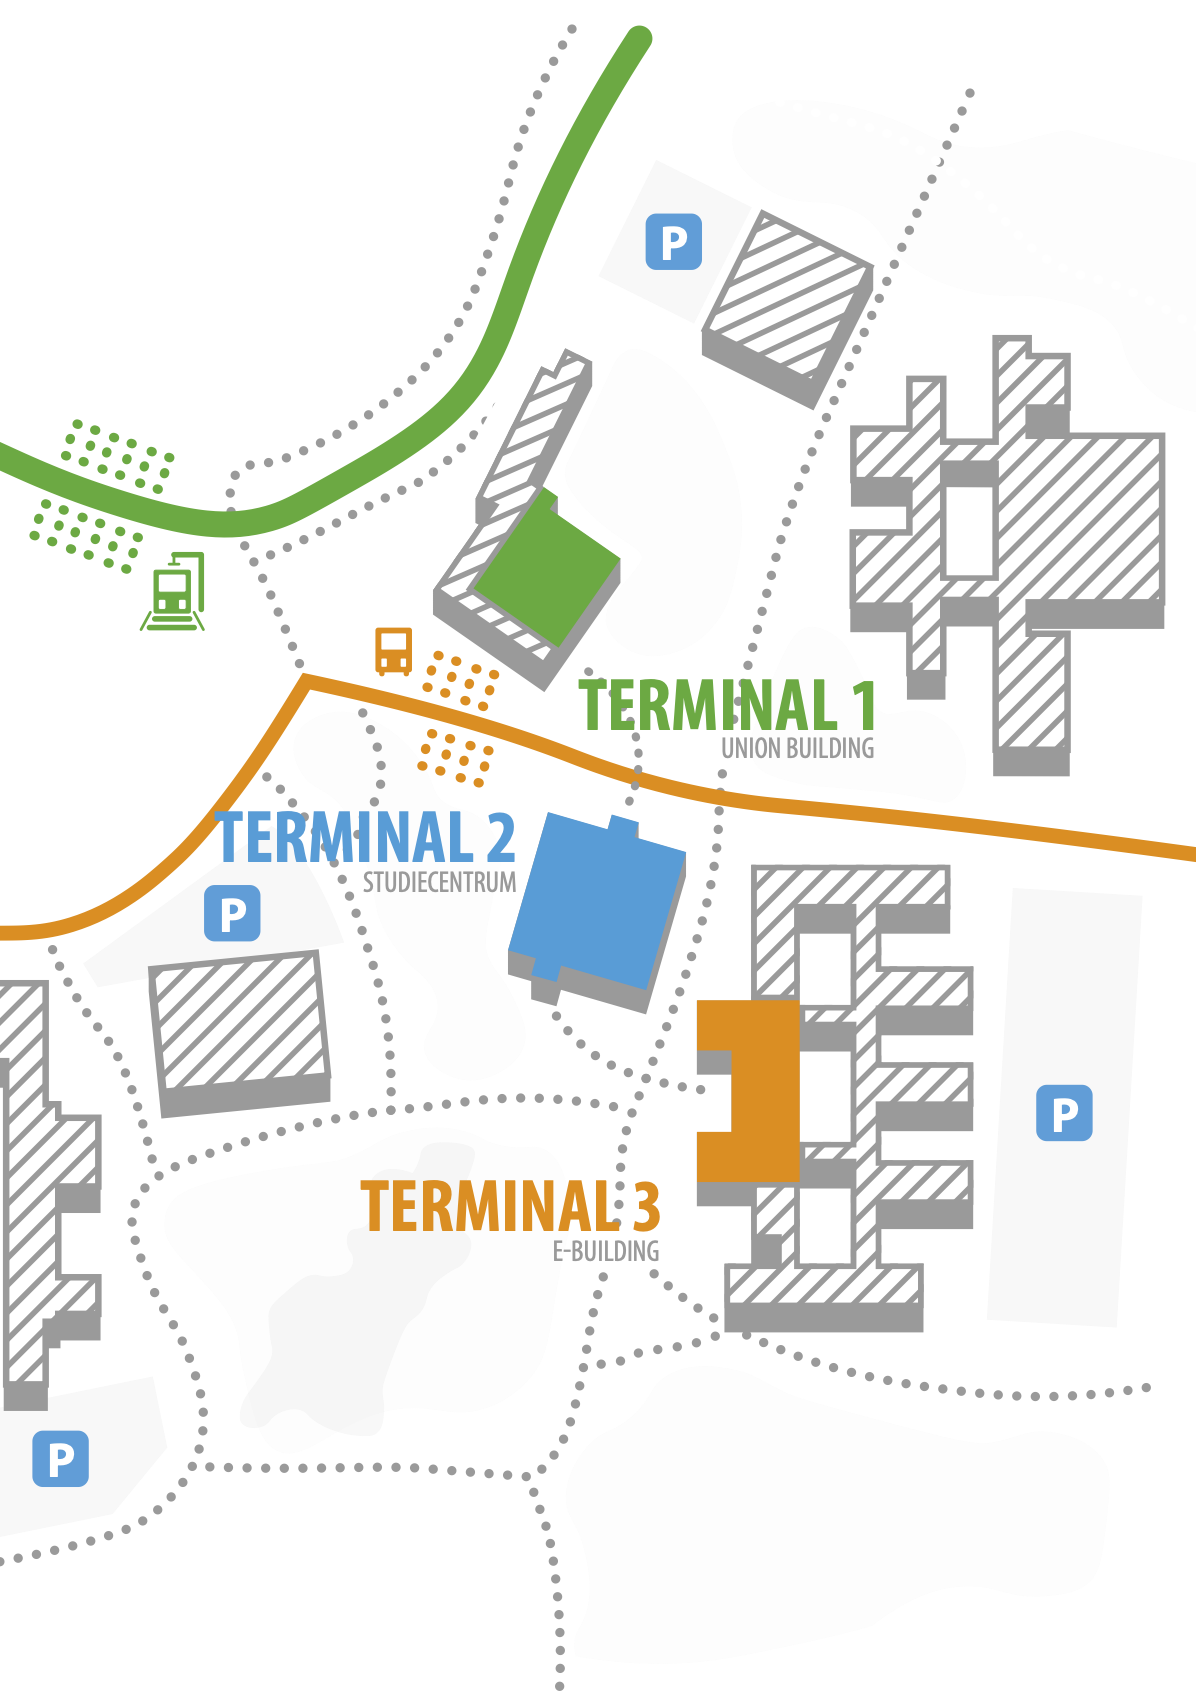
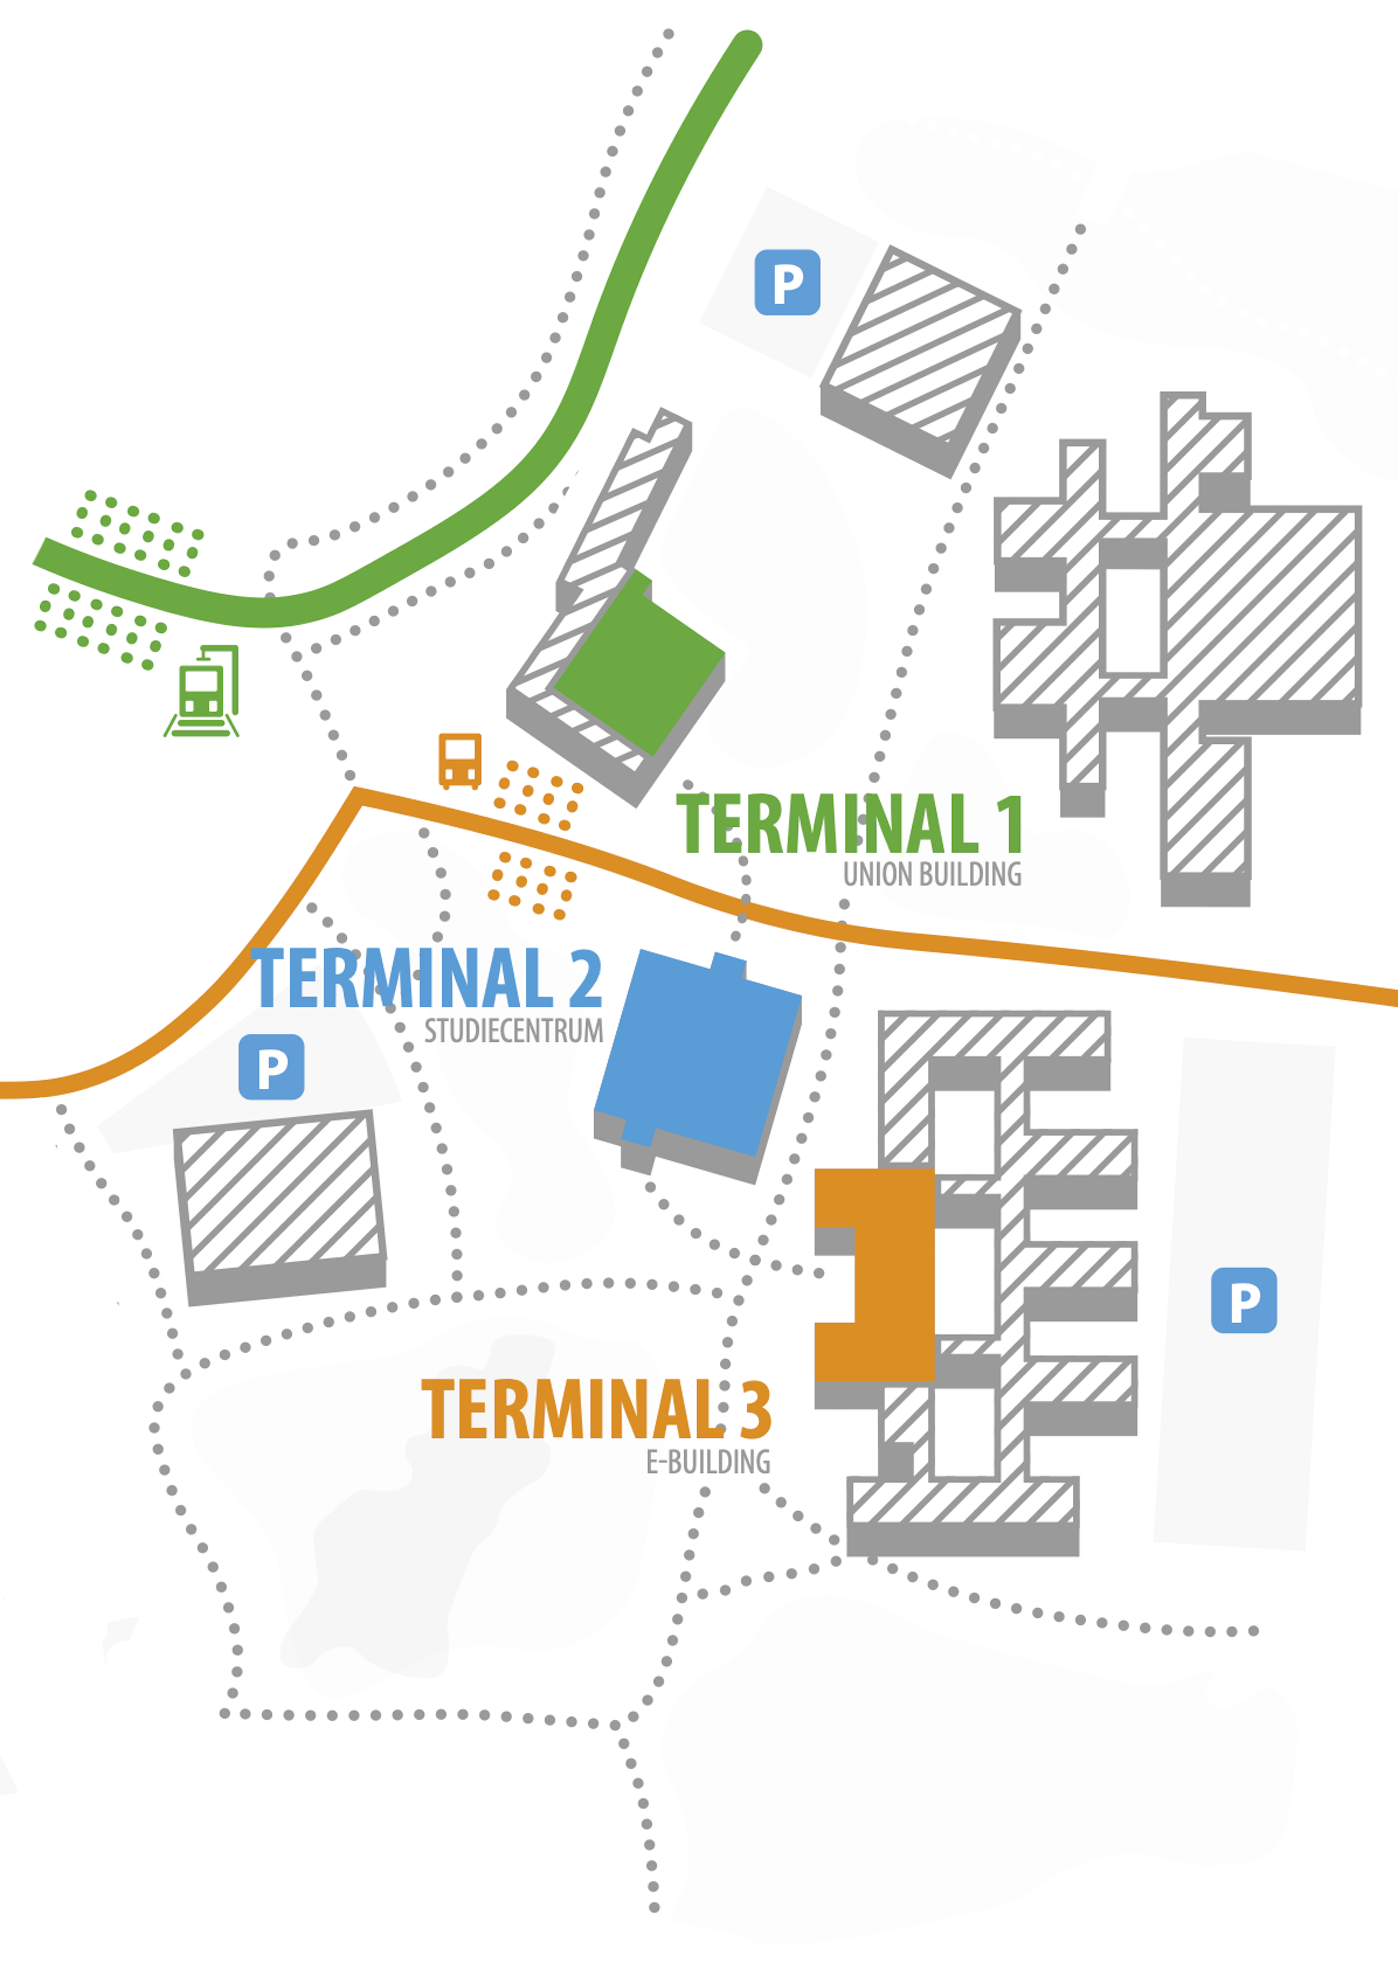
zoomed overview and hidden buttons

Changed region(s): [[0.0, 0.5618, 0.0928, 0.874], [0.464, 0.9676, 0.495, 0.9988], [0.0, 0.2497, 0.0309, 0.2809]]

diff --git a/screens/maps/MapScreen.tsx b/screens/maps/MapScreen.tsx
@@ -13,7 +13,7 @@ export type mapNavigation = {
 };
 
 export default function MapScreen({ navigation }: mapNavigation) {
-  const imageSource = require('../../assets/images/maps/overview.png');
+  const imageSource = require('../../assets/images/maps/overviewtest.png');
 
   function openMap(map: Map) {
     navigation.navigate('ZoomMapScreen', { map });
@@ -55,13 +55,13 @@ const styles = StyleSheet.create({
 
   karbutton: {
     position: "absolute",
-    width: "48%",
-    aspectRatio: 2.1,
+    width: "50%",
+    aspectRatio: 1.4,
     textAlign: 'center',
-    opacity: 0.3,
+    opacity: 0,
     borderRadius: 100,
     left: '32%',
-    bottom: '58%',
+    bottom: '54%',
     margin: 0,
     zIndex: 1001,
     backgroundColor: Colors.lightBlue,
@@ -69,40 +69,40 @@ const styles = StyleSheet.create({
 
   studiebutton: {
     position: "absolute",
-    width: "48%",
-    aspectRatio: 1.9,
-    opacity: 0.3,
+    width: "60%",
+    aspectRatio: 2.2,
+    opacity: 0,
     borderRadius: 100,
     textAlign: 'center',
     margin: "0%",
-    left: "10%",
-    bottom: "39%",
+    left: "0%",
+    bottom: "35%",
     zIndex: 1000,
-    backgroundColor: Colors.lightBlue,
+    //backgroundColor: Colors.lightBlue,
   },
 
   ebutton: {
     position: "absolute",
     width: "28%",
     aspectRatio: 0.5,
-    opacity: 0.3,
+    opacity: 0,
     textAlign: 'center',
     margin: 0,
     left: "59%",
-    bottom: "18%",
+    bottom: "10%",
     borderRadius: 100,
     backgroundColor: Colors.lightBlue,
   },
 
   etext: {
     position: "absolute",
-    width: "33%",
-    aspectRatio: 1.9,
-    opacity: 0.3,
+    width: "55%",
+    aspectRatio: 2.3,
+    opacity: 0,
     textAlign: 'center',
     margin: 0,
-    left: "27%",
-    bottom: "24%",
+    left: "18%",
+    bottom: "10%",
     borderRadius: 100,
     backgroundColor: Colors.lightBlue,
   }
